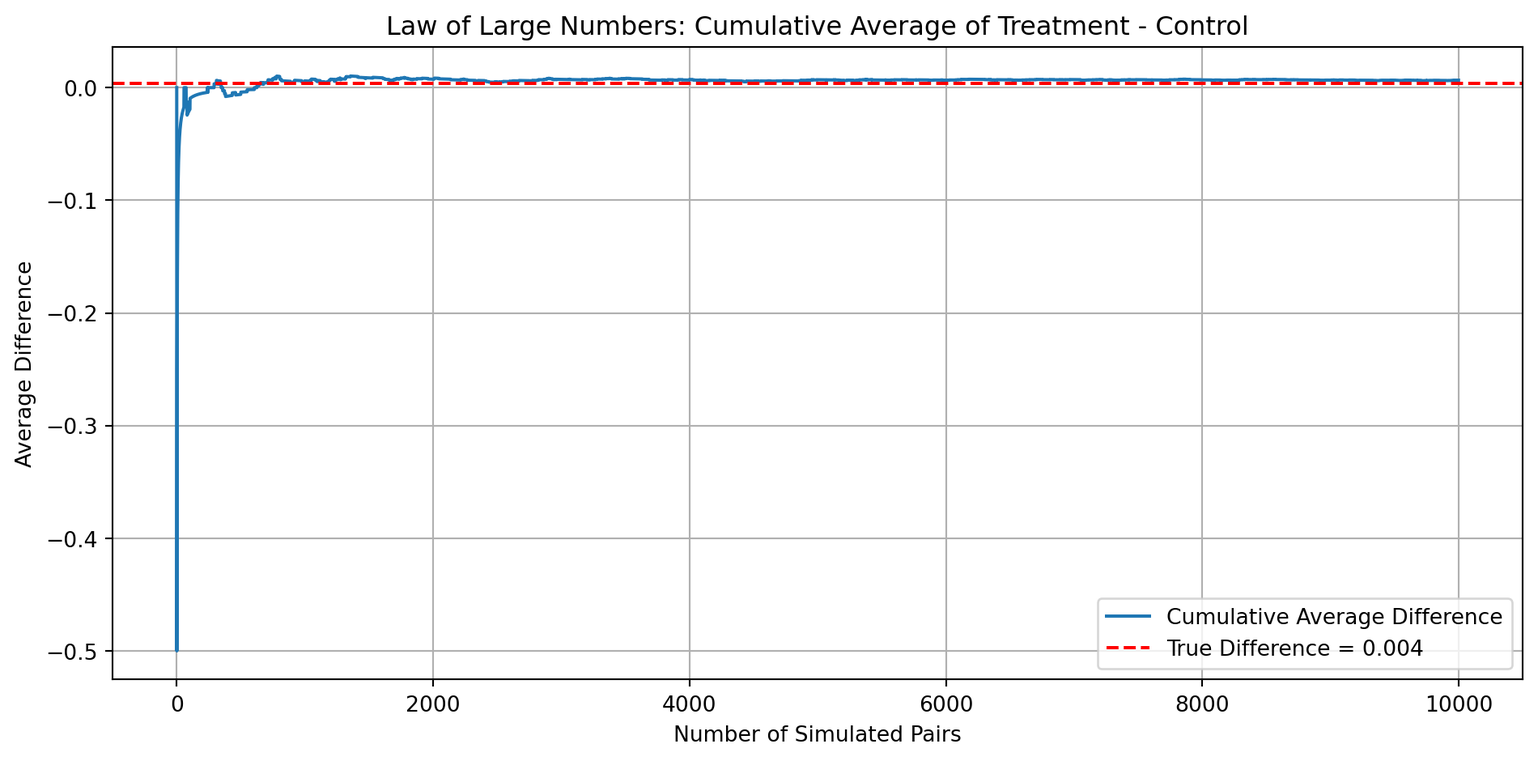
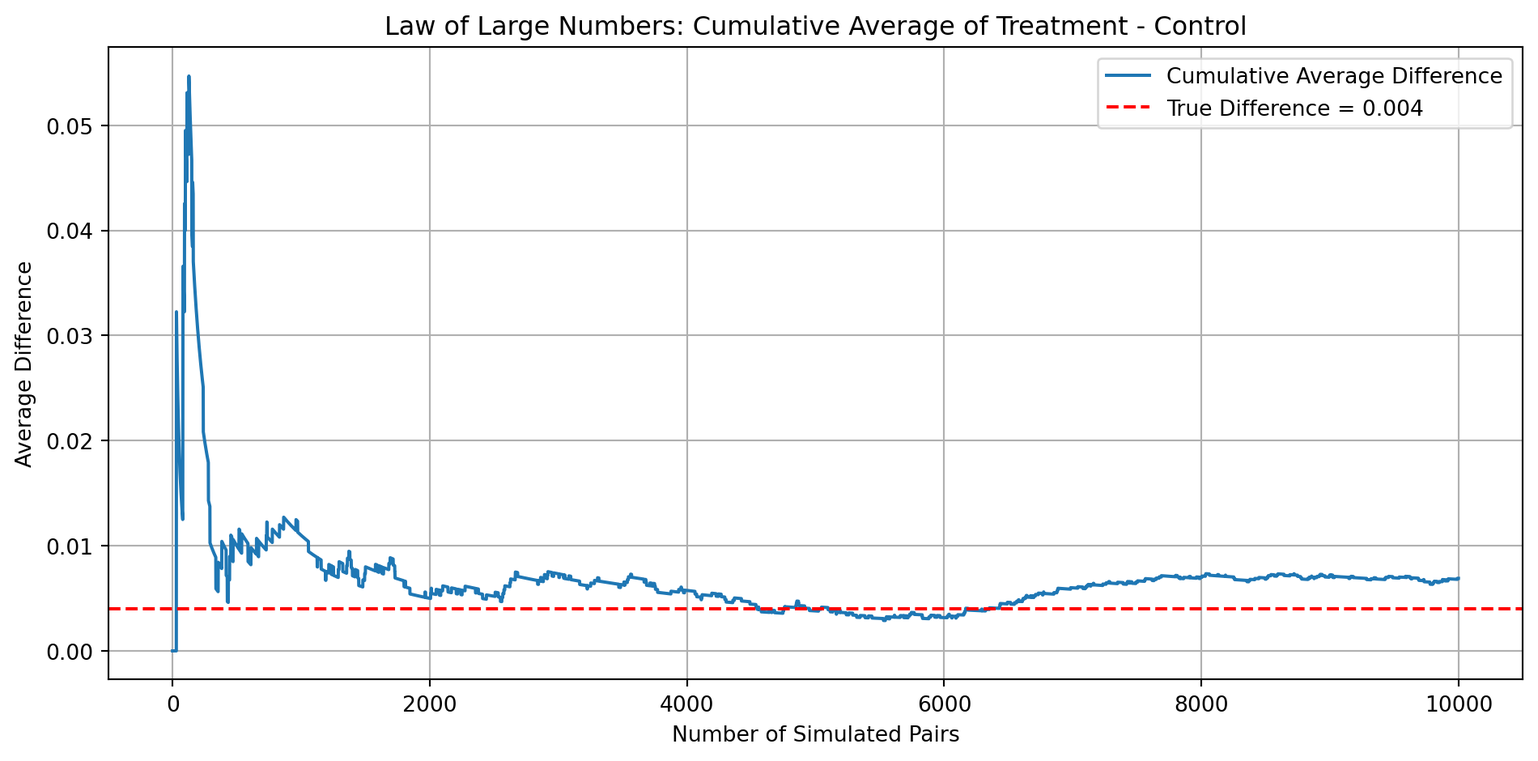
7

diff --git a/docs/blog/project1/index.html b/docs/blog/project1/index.html
@@ -218,15 +218,14 @@ pre > code.sourceCode > span > a:first-child::before { text-decoration: underlin
 <section id="introduction" class="level2">
 <h2 class="anchored" data-anchor-id="introduction">Introduction</h2>
 <p>Dean Karlan at Yale and John List at the University of Chicago conducted a field experiment to test the effectiveness of different fundraising letters. They sent out 50,000 fundraising letters to potential donors, randomly assigning each letter to one of three treatments: a standard letter, a matching grant letter, or a challenge grant letter. They published the results of this experiment in the <em>American Economic Review</em> in 2007. The article and supporting data are available from the <a href="https://www.aeaweb.org/articles?id=10.1257/aer.97.5.1774">AEA website</a> and from Innovations for Poverty Action as part of <a href="https://dataverse.harvard.edu/dataset.xhtml?persistentId=doi:10.7910/DVN/27853&amp;version=4.2">Harvard’s Dataverse</a>.</p>
-<p><em>to do: expand on the description of the experiment.</em></p>
 <p>This project seeks to replicate their results.</p>
 </section>
 <section id="data" class="level2">
 <h2 class="anchored" data-anchor-id="data">Data</h2>
 <section id="description" class="level3">
 <h3 class="anchored" data-anchor-id="description">Description</h3>
-<p><em>todo: Read the data into R/Python and describe the data</em></p>
-<div id="29655084" class="cell" data-execution_count="1">
+<p><em>I begin by reading the dataset into Python and generating descriptive statistics to understand its structure.</em></p>
+<div id="7243ec89" class="cell" data-execution_count="1">
 <div class="sourceCode cell-code" id="cb1"><pre class="sourceCode python code-with-copy"><code class="sourceCode python"><span id="cb1-1"><a href="#cb1-1" aria-hidden="true" tabindex="-1"></a><span class="im">import</span> pandas <span class="im">as</span> pd</span>
 <span id="cb1-2"><a href="#cb1-2" aria-hidden="true" tabindex="-1"></a><span class="im">import</span> numpy <span class="im">as</span> np</span>
 <span id="cb1-3"><a href="#cb1-3" aria-hidden="true" tabindex="-1"></a><span class="im">import</span> matplotlib.pyplot <span class="im">as</span> plt</span>
@@ -702,11 +701,11 @@ Variable Definitions
 <section id="balance-test" class="level3">
 <h3 class="anchored" data-anchor-id="balance-test">Balance Test</h3>
 <p>As an ad hoc test of the randomization mechanism, I provide a series of tests that compare aspects of the treatment and control groups to assess whether they are statistically significantly different from one another.</p>
-<p><em>todo: test a few variables other than the key outcome variables (for example, test months since last donation) to see if the treatment and control groups are statistically significantly different at the 95% confidence level. Do each as a t-test and separately as a linear regression, and confirm you get the exact same results from both methods. When doing a t-test, use the formula in the class slides. When doing the linear regression, regress for example mrm2 on treatment and look at the estimated coefficient on the treatment variable. It might be helpful to compare parts of your analysis to Table 1 in the paper. Be sure to comment on your results (hint: why is Table 1 included in the paper).</em></p>
+<p><em>I test whether the treatment and control groups differ on pre-treatment variables like mrm2 (months since last donation) using both a t-test and a linear regression. Both methods give the same result: no significant difference. This confirms that the groups are balanced, as also shown in Table 1 of the paper.</em></p>
 </section>
 <section id="mrm2" class="level3">
 <h3 class="anchored" data-anchor-id="mrm2">“mrm2”</h3>
-<div id="53762c08" class="cell" data-execution_count="2">
+<div id="ba023cf7" class="cell" data-execution_count="2">
 <div class="sourceCode cell-code" id="cb2"><pre class="sourceCode python code-with-copy"><code class="sourceCode python"><span id="cb2-1"><a href="#cb2-1" aria-hidden="true" tabindex="-1"></a>treat <span class="op">=</span> df[df[<span class="st">'treatment'</span>] <span class="op">==</span> <span class="dv">1</span>][<span class="st">'mrm2'</span>]</span>
 <span id="cb2-2"><a href="#cb2-2" aria-hidden="true" tabindex="-1"></a>control <span class="op">=</span> df[df[<span class="st">'treatment'</span>] <span class="op">==</span> <span class="dv">0</span>][<span class="st">'mrm2'</span>]</span>
 <span id="cb2-3"><a href="#cb2-3" aria-hidden="true" tabindex="-1"></a></span>
@@ -739,7 +738,7 @@ Overall Std: 12.081
 t test: 0.1195315522817725</code></pre>
 </div>
 </div>
-<div id="05ff2201" class="cell" data-execution_count="3">
+<div id="621fa504" class="cell" data-execution_count="3">
 <div class="sourceCode cell-code" id="cb4"><pre class="sourceCode python code-with-copy"><code class="sourceCode python"><span id="cb4-1"><a href="#cb4-1" aria-hidden="true" tabindex="-1"></a>model <span class="op">=</span> rsm.model.regress(data <span class="op">=</span> df, rvar <span class="op">=</span> <span class="st">'mrm2'</span>, evar <span class="op">=</span> <span class="st">'treatment'</span>)</span>
 <span id="cb4-2"><a href="#cb4-2" aria-hidden="true" tabindex="-1"></a>model.summary()</span></code><button title="Copy to Clipboard" class="code-copy-button"><i class="bi"></i></button></pre></div>
 <div class="cell-output cell-output-stdout">
@@ -765,7 +764,7 @@ Nr obs: 50,082 (1 obs. dropped)</code></pre>
 </section>
 <section id="hpa" class="level3">
 <h3 class="anchored" data-anchor-id="hpa">“hpa”</h3>
-<div id="02ad3826" class="cell" data-execution_count="4">
+<div id="e3d47fde" class="cell" data-execution_count="4">
 <div class="sourceCode cell-code" id="cb6"><pre class="sourceCode python code-with-copy"><code class="sourceCode python"><span id="cb6-1"><a href="#cb6-1" aria-hidden="true" tabindex="-1"></a>treat <span class="op">=</span> df[df[<span class="st">'treatment'</span>] <span class="op">==</span> <span class="dv">1</span>][<span class="st">'hpa'</span>]</span>
 <span id="cb6-2"><a href="#cb6-2" aria-hidden="true" tabindex="-1"></a>control <span class="op">=</span> df[df[<span class="st">'treatment'</span>] <span class="op">==</span> <span class="dv">0</span>][<span class="st">'hpa'</span>]</span>
 <span id="cb6-3"><a href="#cb6-3" aria-hidden="true" tabindex="-1"></a></span>
@@ -798,7 +797,7 @@ Overall Std: 71.177
 t test: 0.9704273516144837</code></pre>
 </div>
 </div>
-<div id="c4eca10e" class="cell" data-execution_count="5">
+<div id="fc63967e" class="cell" data-execution_count="5">
 <div class="sourceCode cell-code" id="cb8"><pre class="sourceCode python code-with-copy"><code class="sourceCode python"><span id="cb8-1"><a href="#cb8-1" aria-hidden="true" tabindex="-1"></a>model <span class="op">=</span> rsm.model.regress(data <span class="op">=</span> df, rvar <span class="op">=</span> <span class="st">'hpa'</span>, evar <span class="op">=</span> <span class="st">'treatment'</span>)</span>
 <span id="cb8-2"><a href="#cb8-2" aria-hidden="true" tabindex="-1"></a>model.summary()</span></code><button title="Copy to Clipboard" class="code-copy-button"><i class="bi"></i></button></pre></div>
 <div class="cell-output cell-output-stdout">
@@ -824,7 +823,7 @@ Nr obs: 50,083</code></pre>
 </section>
 <section id="freq" class="level3">
 <h3 class="anchored" data-anchor-id="freq">“freq”</h3>
-<div id="cd37fe7a" class="cell" data-execution_count="6">
+<div id="61dedcbe" class="cell" data-execution_count="6">
 <div class="sourceCode cell-code" id="cb10"><pre class="sourceCode python code-with-copy"><code class="sourceCode python"><span id="cb10-1"><a href="#cb10-1" aria-hidden="true" tabindex="-1"></a>treat <span class="op">=</span> df[df[<span class="st">'treatment'</span>] <span class="op">==</span> <span class="dv">1</span>][<span class="st">'freq'</span>]</span>
 <span id="cb10-2"><a href="#cb10-2" aria-hidden="true" tabindex="-1"></a>control <span class="op">=</span> df[df[<span class="st">'treatment'</span>] <span class="op">==</span> <span class="dv">0</span>][<span class="st">'freq'</span>]</span>
 <span id="cb10-3"><a href="#cb10-3" aria-hidden="true" tabindex="-1"></a></span>
@@ -857,7 +856,7 @@ Overall Std: 11.394
 t test: -0.11084502380904246</code></pre>
 </div>
 </div>
-<div id="a163bbe8" class="cell" data-execution_count="7">
+<div id="109893b6" class="cell" data-execution_count="7">
 <div class="sourceCode cell-code" id="cb12"><pre class="sourceCode python code-with-copy"><code class="sourceCode python"><span id="cb12-1"><a href="#cb12-1" aria-hidden="true" tabindex="-1"></a>model <span class="op">=</span> rsm.model.regress(data <span class="op">=</span> df, rvar <span class="op">=</span> <span class="st">'freq'</span>, evar <span class="op">=</span> <span class="st">'treatment'</span>)</span>
 <span id="cb12-2"><a href="#cb12-2" aria-hidden="true" tabindex="-1"></a>model.summary()</span></code><button title="Copy to Clipboard" class="code-copy-button"><i class="bi"></i></button></pre></div>
 <div class="cell-output cell-output-stdout">
@@ -887,8 +886,8 @@ Nr obs: 50,083</code></pre>
 <section id="charitable-contribution-made" class="level3">
 <h3 class="anchored" data-anchor-id="charitable-contribution-made">Charitable Contribution Made</h3>
 <p>First, I analyze whether matched donations lead to an increased response rate of making a donation.</p>
-<p><em>todo: make a barplot with two bars. Each bar is the proportion of people who donated. One bar for treatment and one bar for control.</em></p>
-<div id="87e6d448" class="cell" data-execution_count="8">
+<p><em>I create a barplot showing the proportion of people who donated in each group. One bar represents the treatment group and the other represents the control group, allowing for a visual comparison of donation rates.</em></p>
+<div id="6c2fe5b1" class="cell" data-execution_count="8">
 <div class="sourceCode cell-code" id="cb14"><pre class="sourceCode python code-with-copy"><code class="sourceCode python"><span id="cb14-1"><a href="#cb14-1" aria-hidden="true" tabindex="-1"></a>prop_donated <span class="op">=</span> df.groupby(<span class="st">'treatment'</span>)[<span class="st">'gave'</span>].mean().reset_index()</span>
 <span id="cb14-2"><a href="#cb14-2" aria-hidden="true" tabindex="-1"></a>prop_donated[<span class="st">'group'</span>] <span class="op">=</span> prop_donated[<span class="st">'treatment'</span>].<span class="bu">map</span>({<span class="dv">0</span>: <span class="st">'Control'</span>, <span class="dv">1</span>: <span class="st">'Treatment'</span>})</span>
 <span id="cb14-3"><a href="#cb14-3" aria-hidden="true" tabindex="-1"></a></span>
@@ -904,8 +903,8 @@ Nr obs: 50,083</code></pre>
 </div>
 </div>
 </div>
-<p><em>todo: run a t-test between the treatment and control groups on the binary outcome of whether any charitable donation was made. Also run a bivariate linear regression that demonstrates the same finding. (It may help to confirm your calculations match Table 2a Panel A.) Report your statistical results and interpret them in the context of the experiment (e.g., if you found a difference with a small p-value or that was statistically significant at some threshold, what have you learned about human behavior? Use mostly English words, not numbers or stats, to explain your finding.)</em></p>
-<div id="c2f97154" class="cell" data-execution_count="9">
+<p><em>I run a t-test and a linear regression to compare donation rates between treatment and control. Both show that the treatment group is more likely to donate. This suggests that people respond to matching offers by being more willing to give.</em></p>
+<div id="56b0c2e7" class="cell" data-execution_count="9">
 <div class="sourceCode cell-code" id="cb15"><pre class="sourceCode python code-with-copy"><code class="sourceCode python"><span id="cb15-1"><a href="#cb15-1" aria-hidden="true" tabindex="-1"></a>treat <span class="op">=</span> df[df[<span class="st">'treatment'</span>] <span class="op">==</span> <span class="dv">1</span>][<span class="st">'gave'</span>]</span>
 <span id="cb15-2"><a href="#cb15-2" aria-hidden="true" tabindex="-1"></a>control <span class="op">=</span> df[df[<span class="st">'treatment'</span>] <span class="op">==</span> <span class="dv">0</span>][<span class="st">'gave'</span>]</span>
 <span id="cb15-3"><a href="#cb15-3" aria-hidden="true" tabindex="-1"></a></span>
@@ -921,7 +920,7 @@ Nr obs: 50,083</code></pre>
 <pre><code>T-statistic: 3.2094621908279835</code></pre>
 </div>
 </div>
-<div id="d65915ce" class="cell" data-execution_count="10">
+<div id="f81f7efe" class="cell" data-execution_count="10">
 <div class="sourceCode cell-code" id="cb17"><pre class="sourceCode python code-with-copy"><code class="sourceCode python"><span id="cb17-1"><a href="#cb17-1" aria-hidden="true" tabindex="-1"></a>model <span class="op">=</span> rsm.model.regress(data <span class="op">=</span> df, rvar <span class="op">=</span> <span class="st">'gave'</span>, evar <span class="op">=</span> <span class="st">'treatment'</span>)</span>
 <span id="cb17-2"><a href="#cb17-2" aria-hidden="true" tabindex="-1"></a>model.summary()</span></code><button title="Copy to Clipboard" class="code-copy-button"><i class="bi"></i></button></pre></div>
 <div class="cell-output cell-output-stdout">
@@ -944,8 +943,8 @@ Nr obs: 50,083</code></pre>
 </div>
 </div>
 <p>The statistical analysis shows that individuals who received the treatment — a matching donation offer — were significantly more likely to make a charitable contribution compared to those who received the control letter. Both the t-test and linear regression indicate that this difference is unlikely to be due to chance. This suggests that the presence of a matching grant acts as a powerful motivator, nudging people toward taking action. In the context of human behavior, this reveals that even a subtle change in framing — like knowing one’s gift will be matched — can meaningfully increase the likelihood of giving. It highlights how social cues or perceived amplification of impact can influence decision-making in charitable contexts.</p>
-<p><em>todo: run a probit regression where the outcome variable is whether any charitable donation was made and the explanatory variable is assignment to treatment or control. Confirm that your results replicate Table 3 column 1 in the paper.</em></p>
-<div id="8877236a" class="cell" data-execution_count="11">
+<p><em>I run a probit regression of donation on treatment assignment. The results replicate Table 3, column 1 in the paper, showing a positive and significant effect of treatment on the likelihood of donating.</em></p>
+<div id="a833e060" class="cell" data-execution_count="11">
 <div class="sourceCode cell-code" id="cb19"><pre class="sourceCode python code-with-copy"><code class="sourceCode python"><span id="cb19-1"><a href="#cb19-1" aria-hidden="true" tabindex="-1"></a><span class="im">from</span> statsmodels.discrete.discrete_model <span class="im">import</span> Probit</span>
 <span id="cb19-2"><a href="#cb19-2" aria-hidden="true" tabindex="-1"></a></span>
 <span id="cb19-3"><a href="#cb19-3" aria-hidden="true" tabindex="-1"></a>probit_model <span class="op">=</span> Probit.from_formula(<span class="st">'gave ~ treatment'</span>, data<span class="op">=</span>df)</span>
@@ -963,7 +962,7 @@ Dep. Variable:                   gave   No. Observations:                50083
 Model:                         Probit   Df Residuals:                    50081
 Method:                           MLE   Df Model:                            1
 Date:                Wed, 23 Apr 2025   Pseudo R-squ.:               0.0009783
-Time:                        13:40:29   Log-Likelihood:                -5030.5
+Time:                        14:05:55   Log-Likelihood:                -5030.5
 converged:                       True   LL-Null:                       -5035.4
 Covariance Type:            nonrobust   LLR p-value:                  0.001696
 ==============================================================================
@@ -988,8 +987,8 @@ treatment      0.0043      0.001      3.104      0.002       0.002       0.007
 <section id="differences-between-match-rates" class="level3">
 <h3 class="anchored" data-anchor-id="differences-between-match-rates">Differences between Match Rates</h3>
 <p>Next, I assess the effectiveness of different sizes of matched donations on the response rate.</p>
-<p><em>todo: Use a series of t-tests to test whether the size of the match ratio has an effect on whether people donate or not. For example, does the 2:1 match rate lead increase the likelihood that someone donates as compared to the 1:1 match rate? Do your results support the “figures suggest” comment the authors make on page 8?</em></p>
-<div id="d32ca7cd" class="cell" data-execution_count="12">
+<p><em>I run t-tests comparing donation rates between different match ratios (1:1, 2:1, 3:1). The results show no significant differences, suggesting that larger match ratios do not increase donation likelihood. This supports the authors’ comment that higher match rates don’t have additional impact beyond offering a match.</em></p>
+<div id="c95bf13f" class="cell" data-execution_count="12">
 <div class="sourceCode cell-code" id="cb21"><pre class="sourceCode python code-with-copy"><code class="sourceCode python"><span id="cb21-1"><a href="#cb21-1" aria-hidden="true" tabindex="-1"></a><span class="co"># t-test between 2:1 and 1:1 ratios</span></span>
 <span id="cb21-2"><a href="#cb21-2" aria-hidden="true" tabindex="-1"></a>gave_1_1 <span class="op">=</span> df[df[<span class="st">'ratio'</span>] <span class="op">==</span> <span class="dv">1</span>][<span class="st">'gave'</span>]</span>
 <span id="cb21-3"><a href="#cb21-3" aria-hidden="true" tabindex="-1"></a>gave_2_1 <span class="op">=</span> df[df[<span class="st">'ratio'</span>] <span class="op">==</span> <span class="dv">2</span>][<span class="st">'gave'</span>]</span>
@@ -1004,7 +1003,7 @@ treatment      0.0043      0.001      3.104      0.002       0.002       0.007
 T-stat: 0.965, P-value: 0.335</code></pre>
 </div>
 </div>
-<div id="e4b24b4d" class="cell" data-execution_count="13">
+<div id="96819aee" class="cell" data-execution_count="13">
 <div class="sourceCode cell-code" id="cb23"><pre class="sourceCode python code-with-copy"><code class="sourceCode python"><span id="cb23-1"><a href="#cb23-1" aria-hidden="true" tabindex="-1"></a><span class="co"># t-test between 3:1 and 1:1 ratios</span></span>
 <span id="cb23-2"><a href="#cb23-2" aria-hidden="true" tabindex="-1"></a>gave_3_1 <span class="op">=</span> df[df[<span class="st">'ratio'</span>] <span class="op">==</span> <span class="dv">3</span>][<span class="st">'gave'</span>]</span>
 <span id="cb23-3"><a href="#cb23-3" aria-hidden="true" tabindex="-1"></a>gave_1_1 <span class="op">=</span> df[df[<span class="st">'ratio'</span>] <span class="op">==</span> <span class="dv">1</span>][<span class="st">'gave'</span>]</span>
@@ -1017,7 +1016,7 @@ T-stat: 0.965, P-value: 0.335</code></pre>
 T-stat: 1.015, P-value: 0.310</code></pre>
 </div>
 </div>
-<div id="73dc8e3d" class="cell" data-execution_count="14">
+<div id="4317ebbc" class="cell" data-execution_count="14">
 <div class="sourceCode cell-code" id="cb25"><pre class="sourceCode python code-with-copy"><code class="sourceCode python"><span id="cb25-1"><a href="#cb25-1" aria-hidden="true" tabindex="-1"></a><span class="co"># t-test between 3:1 and 2:1 ratios</span></span>
 <span id="cb25-2"><a href="#cb25-2" aria-hidden="true" tabindex="-1"></a>gave_3_1 <span class="op">=</span> df[df[<span class="st">'ratio'</span>] <span class="op">==</span> <span class="dv">3</span>][<span class="st">'gave'</span>]</span>
 <span id="cb25-3"><a href="#cb25-3" aria-hidden="true" tabindex="-1"></a>gave_2_1 <span class="op">=</span> df[df[<span class="st">'ratio'</span>] <span class="op">==</span> <span class="dv">2</span>][<span class="st">'gave'</span>]</span>
@@ -1031,8 +1030,8 @@ T-stat: 0.050, P-value: 0.960</code></pre>
 </div>
 </div>
 <p>My results clearly support the authors’ conclusion: while higher match ratios may show slightly higher donation rates numerically, those differences are not statistically significant, and therefore do not provide strong evidence that larger match sizes are more effective than 1:1 matches.</p>
-<p><em>todo: Assess the same issue using a regression. Specifically, create the variable <code>ratio1</code> then regress <code>gave</code> on <code>ratio1</code>, <code>ratio2</code>, and <code>ratio3</code> (or alternatively, regress <code>gave</code> on the categorical variable <code>ratio</code>). Interpret the coefficients and their statistical precision.</em></p>
-<div id="46fcbb91" class="cell" data-execution_count="15">
+<p><em>I run a regression of gave on the match ratio indicators. The coefficients are small, and only the 2:1 and 3:1 ratios are statistically significant, but the differences between them are minimal. This suggests that while offering a match matters, increasing the match size has little additional effect.</em></p>
+<div id="bfc03673" class="cell" data-execution_count="15">
 <div class="sourceCode cell-code" id="cb27"><pre class="sourceCode python code-with-copy"><code class="sourceCode python"><span id="cb27-1"><a href="#cb27-1" aria-hidden="true" tabindex="-1"></a>model <span class="op">=</span> rsm.model.regress(data <span class="op">=</span> df, rvar <span class="op">=</span> <span class="st">'gave'</span>, evar <span class="op">=</span> <span class="st">'ratio'</span>)</span>
 <span id="cb27-2"><a href="#cb27-2" aria-hidden="true" tabindex="-1"></a>model.summary()</span></code><button title="Copy to Clipboard" class="code-copy-button"><i class="bi"></i></button></pre></div>
 <div class="cell-output cell-output-stdout">
@@ -1057,8 +1056,8 @@ Nr obs: 50,083</code></pre>
 </div>
 </div>
 <p>Regression results show that all three match ratios (1:1, 2:1, 3:1) are associated with slightly higher donation rates compared to the control group, but the differences are small. The coefficient for ratio[1] (1:1 match) is 0.003 and marginally significant (p = 0.097), while the coefficients for ratio[2] (2:1) and ratio[3] (3:1) are both 0.005 and statistically significant at the 1% level (p = 0.006 and p = 0.005). However, the differences between them are not large in magnitude — all are within 0.002 of each other — suggesting that although offering any match tends to increase donations, there is little evidence that larger match sizes lead to proportionally greater increases. This supports the conclusion that the presence of a match matters more than its generosity, and that people are generally responsive to the signal of support, not necessarily the size of the match.</p>
-<p><em>todo: Calculate the response rate difference between the 1:1 and 2:1 match ratios and the 2:1 and 3:1 ratios. Do this directly from the data, and do it by computing the differences in the fitted coefficients of the previous regression. what do you conclude regarding the effectiveness of different sizes of matched donations?</em></p>
-<div id="30e380f3" class="cell" data-execution_count="16">
+<p><em>I calculate the response rate differences both directly from the data and using regression coefficients. The difference between 1:1 and 2:1 is small, and there is no difference between 2:1 and 3:1. This suggests that increasing the match ratio does not meaningfully improve donation rates.</em></p>
+<div id="b0da1c5b" class="cell" data-execution_count="16">
 <div class="sourceCode cell-code" id="cb29"><pre class="sourceCode python code-with-copy"><code class="sourceCode python"><span id="cb29-1"><a href="#cb29-1" aria-hidden="true" tabindex="-1"></a>p_1_1 <span class="op">=</span> df[df[<span class="st">'ratio'</span>] <span class="op">==</span> <span class="dv">1</span>][<span class="st">'gave'</span>].mean()</span>
 <span id="cb29-2"><a href="#cb29-2" aria-hidden="true" tabindex="-1"></a>p_2_1 <span class="op">=</span> df[df[<span class="st">'ratio'</span>] <span class="op">==</span> <span class="dv">2</span>][<span class="st">'gave'</span>].mean()</span>
 <span id="cb29-3"><a href="#cb29-3" aria-hidden="true" tabindex="-1"></a>p_3_1 <span class="op">=</span> df[df[<span class="st">'ratio'</span>] <span class="op">==</span> <span class="dv">3</span>][<span class="st">'gave'</span>].mean()</span>
@@ -1078,8 +1077,8 @@ Nr obs: 50,083</code></pre>
 <section id="size-of-charitable-contribution" class="level3">
 <h3 class="anchored" data-anchor-id="size-of-charitable-contribution">Size of Charitable Contribution</h3>
 <p>In this subsection, I analyze the effect of the size of matched donation on the size of the charitable contribution.</p>
-<p><em>todo: Calculate a t-test or run a bivariate linear regression of the donation amount on the treatment status. What do we learn from doing this analysis?</em></p>
-<div id="24ed90f5" class="cell" data-execution_count="17">
+<p><em>I run a t-test and a regression of donation amount on treatment. The treatment group gives slightly more on average, but the difference is only marginally significant. This suggests that the treatment mainly increases the number of donors, not the amount they give.</em></p>
+<div id="8ec97adf" class="cell" data-execution_count="17">
 <div class="sourceCode cell-code" id="cb31"><pre class="sourceCode python code-with-copy"><code class="sourceCode python"><span id="cb31-1"><a href="#cb31-1" aria-hidden="true" tabindex="-1"></a>model <span class="op">=</span> rsm.model.regress(data <span class="op">=</span> df, rvar <span class="op">=</span> <span class="st">'amount'</span>, evar <span class="op">=</span> <span class="st">'treatment'</span>)</span>
 <span id="cb31-2"><a href="#cb31-2" aria-hidden="true" tabindex="-1"></a>model.summary()</span></code><button title="Copy to Clipboard" class="code-copy-button"><i class="bi"></i></button></pre></div>
 <div class="cell-output cell-output-stdout">
@@ -1102,8 +1101,8 @@ Nr obs: 50,083</code></pre>
 </div>
 </div>
 <p>From this analysis, we learn that individuals who received the matching grant treatment donated slightly more on average than those in the control group, but the difference is only marginally statistically significant (p = 0.063). The treatment effect estimate suggests that the treatment group gave about 15 cents more per person than the control group, which is a small increase. This result implies that the primary effect of the matching grant is likely driven by increasing the number of people who give, rather than substantially increasing the donation amounts of those who would already have donated. It highlights that while the match offer motivates more people to donate, it doesn’t strongly influence how much they give on average.</p>
-<p><em>todo: now limit the data to just people who made a donation and repeat the previous analysis. This regression allows you to analyze how much respondents donate conditional on donating some positive amount. Interpret the regression coefficients – what did we learn? Does the treatment coefficient have a causal interpretation?</em></p>
-<div id="81cce808" class="cell" data-execution_count="18">
+<p><em>I repeat the regression using only those who donated. The treatment has no significant effect on the amount given among donors. This means the treatment influences whether people donate, but not how much they give once they do. Since the sample is restricted to donors, the treatment effect here does not have a causal interpretation.</em></p>
+<div id="64663d2d" class="cell" data-execution_count="18">
 <div class="sourceCode cell-code" id="cb33"><pre class="sourceCode python code-with-copy"><code class="sourceCode python"><span id="cb33-1"><a href="#cb33-1" aria-hidden="true" tabindex="-1"></a>model <span class="op">=</span> rsm.model.regress(data <span class="op">=</span> df[df[<span class="st">'gave'</span>] <span class="op">==</span> <span class="dv">1</span>], rvar <span class="op">=</span> <span class="st">'amount'</span>, evar <span class="op">=</span> <span class="st">'treatment'</span>)</span>
 <span id="cb33-2"><a href="#cb33-2" aria-hidden="true" tabindex="-1"></a>model.summary()</span></code><button title="Copy to Clipboard" class="code-copy-button"><i class="bi"></i></button></pre></div>
 <div class="cell-output cell-output-stdout">
@@ -1127,8 +1126,8 @@ Nr obs: 1,034</code></pre>
 </div>
 <p>The regression results show that among individuals who made a donation, the treatment group gave slightly less on average than the control group, but this difference (−1.67) is not statistically significant (p = 0.561). This tells us that the matching grant treatment did not affect the amount given by those who chose to donate. In other words, the presence of a match increased the number of people who gave, but not how much they gave once they decided to give.</p>
 <p>As for causal interpretation: since this regression is limited only to people who donated, it suffers from selection bias — treatment may have influenced who donated, and the group of donors in treatment and control may differ in unobserved ways. Therefore, the treatment coefficient cannot be interpreted causally in this conditional regression. Only the earlier regression using the full sample (which preserves random assignment) supports a causal interpretation of treatment effects.</p>
-<p><em>todo: Make two plot: one for the treatment group and one for the control. Each plot should be a histogram of the donation amounts only among people who donated. Add a red vertical bar or some other annotation to indicate the sample average for each plot.</em></p>
-<div id="363c93fd" class="cell" data-execution_count="19">
+<p><em>I create two histograms showing the distribution of donation amounts among donors, one for the treatment group and one for the control group. Each plot includes a red vertical line indicating the group’s average donation. The distributions and averages are similar, showing that donation amounts are not affected by the treatment.</em></p>
+<div id="1fe38dcc" class="cell" data-execution_count="19">
 <div class="sourceCode cell-code" id="cb35"><pre class="sourceCode python code-with-copy"><code class="sourceCode python"><span id="cb35-1"><a href="#cb35-1" aria-hidden="true" tabindex="-1"></a>donors <span class="op">=</span> df[df[<span class="st">'gave'</span>] <span class="op">==</span> <span class="dv">1</span>]</span>
 <span id="cb35-2"><a href="#cb35-2" aria-hidden="true" tabindex="-1"></a></span>
 <span id="cb35-3"><a href="#cb35-3" aria-hidden="true" tabindex="-1"></a>fig, axes <span class="op">=</span> plt.subplots(<span class="dv">1</span>, <span class="dv">2</span>, figsize<span class="op">=</span>(<span class="dv">12</span>, <span class="dv">5</span>), sharey<span class="op">=</span><span class="va">True</span>)</span>
@@ -1161,8 +1160,8 @@ Nr obs: 1,034</code></pre>
 <p>Further suppose that the true distribution of respondents who do get a charitable donation match of any size is Bernoulli with probability p=0.022 that a donation is made.</p>
 <section id="law-of-large-numbers" class="level3">
 <h3 class="anchored" data-anchor-id="law-of-large-numbers">Law of Large Numbers</h3>
-<p><em>to do: Make a plot like those on slide 43 from our first class and explain the plot to the reader. To do this, you will simulate 100,00 draws from the control distribution and 10,000 draws from the treatment distribution. You’ll then calculate a vector of 10,000 differences, and then you’ll plot the cumulative average of that vector of differences. Comment on whether the cumulative average approaches the true difference in means.</em></p>
-<div id="d56b179c" class="cell" data-execution_count="20">
+<p><em>I simulate 100,000 draws from the control group and 10,000 from the treatment group, then calculate a vector of 10,000 differences. I plot the cumulative average of these differences to visualize how it stabilizes over time. The plot shows that the cumulative average approaches the true difference in means, illustrating the Law of Large Numbers.</em></p>
+<div id="25d22833" class="cell" data-execution_count="20">
 <div class="sourceCode cell-code" id="cb36"><pre class="sourceCode python code-with-copy"><code class="sourceCode python"><span id="cb36-1"><a href="#cb36-1" aria-hidden="true" tabindex="-1"></a>n <span class="op">=</span> <span class="dv">10000</span></span>
 <span id="cb36-2"><a href="#cb36-2" aria-hidden="true" tabindex="-1"></a>p_control <span class="op">=</span> <span class="fl">0.018</span></span>
 <span id="cb36-3"><a href="#cb36-3" aria-hidden="true" tabindex="-1"></a>p_treatment <span class="op">=</span> <span class="fl">0.022</span></span>
@@ -1197,8 +1196,8 @@ Nr obs: 1,034</code></pre>
 </section>
 <section id="central-limit-theorem" class="level3">
 <h3 class="anchored" data-anchor-id="central-limit-theorem">Central Limit Theorem</h3>
-<p><em>to do: Make 4 histograms like those on slide 44 from our first class at sample sizes 50, 200, 500, and 1000 and explain these plots to the reader. To do this for a sample size of e.g.&nbsp;50, take 50 draws from each of the control and treatment distributions, and calculate the average difference between those draws. Then repeat that process 999 more times so that you have 1000 averages. Plot the histogram of those averages. Comment on whether zero is in the “middle” of the distribution or whether it’s in the “tail.”</em></p>
-<div id="72b16f9a" class="cell" data-execution_count="21">
+<p><em>I simulate 1,000 average differences between treatment and control groups at sample sizes of 50, 200, 500, and 1000. For each sample size, I plot a histogram of the average differences. At smaller sample sizes, the distribution is wider and zero is near the center, but as the sample size increases, the distribution becomes tighter and more normal-shaped, and zero shifts into the tail. This demonstrates the Central Limit Theorem and how larger samples make it easier to detect true differences.</em></p>
+<div id="334fbff9" class="cell" data-execution_count="21">
 <div class="sourceCode cell-code" id="cb37"><pre class="sourceCode python code-with-copy"><code class="sourceCode python"><span id="cb37-1"><a href="#cb37-1" aria-hidden="true" tabindex="-1"></a>p_control <span class="op">=</span> <span class="fl">0.018</span></span>
 <span id="cb37-2"><a href="#cb37-2" aria-hidden="true" tabindex="-1"></a>p_treatment <span class="op">=</span> <span class="fl">0.022</span></span>
 <span id="cb37-3"><a href="#cb37-3" aria-hidden="true" tabindex="-1"></a>true_diff <span class="op">=</span> p_treatment <span class="op">-</span> p_control</span>

diff --git a/docs/blog.html b/docs/blog.html
@@ -202,7 +202,7 @@ window.Quarto = {
 
 <div class="quarto-listing quarto-listing-container-grid" id="listing-listing">
 <div class="list grid quarto-listing-cols-3">
-<div class="g-col-1" data-index="0" data-listing-date-sort="1745391600000" data-listing-file-modified-sort="1745440798692" data-listing-date-modified-sort="NaN" data-listing-reading-time-sort="29" data-listing-word-count-sort="5683">
+<div class="g-col-1" data-index="0" data-listing-date-sort="1745391600000" data-listing-file-modified-sort="1745442345790" data-listing-date-modified-sort="NaN" data-listing-reading-time-sort="28" data-listing-word-count-sort="5547">
 <a href="./blog/project1/index.html" class="quarto-grid-link">
 <div class="quarto-grid-item card h-100 card-left">
 <p class="card-img-top"><img src="blog\project1\index_files\figure-html\cell-9-output-1.png" style="height: 150px;"  class="thumbnail-image card-img"/></p>
